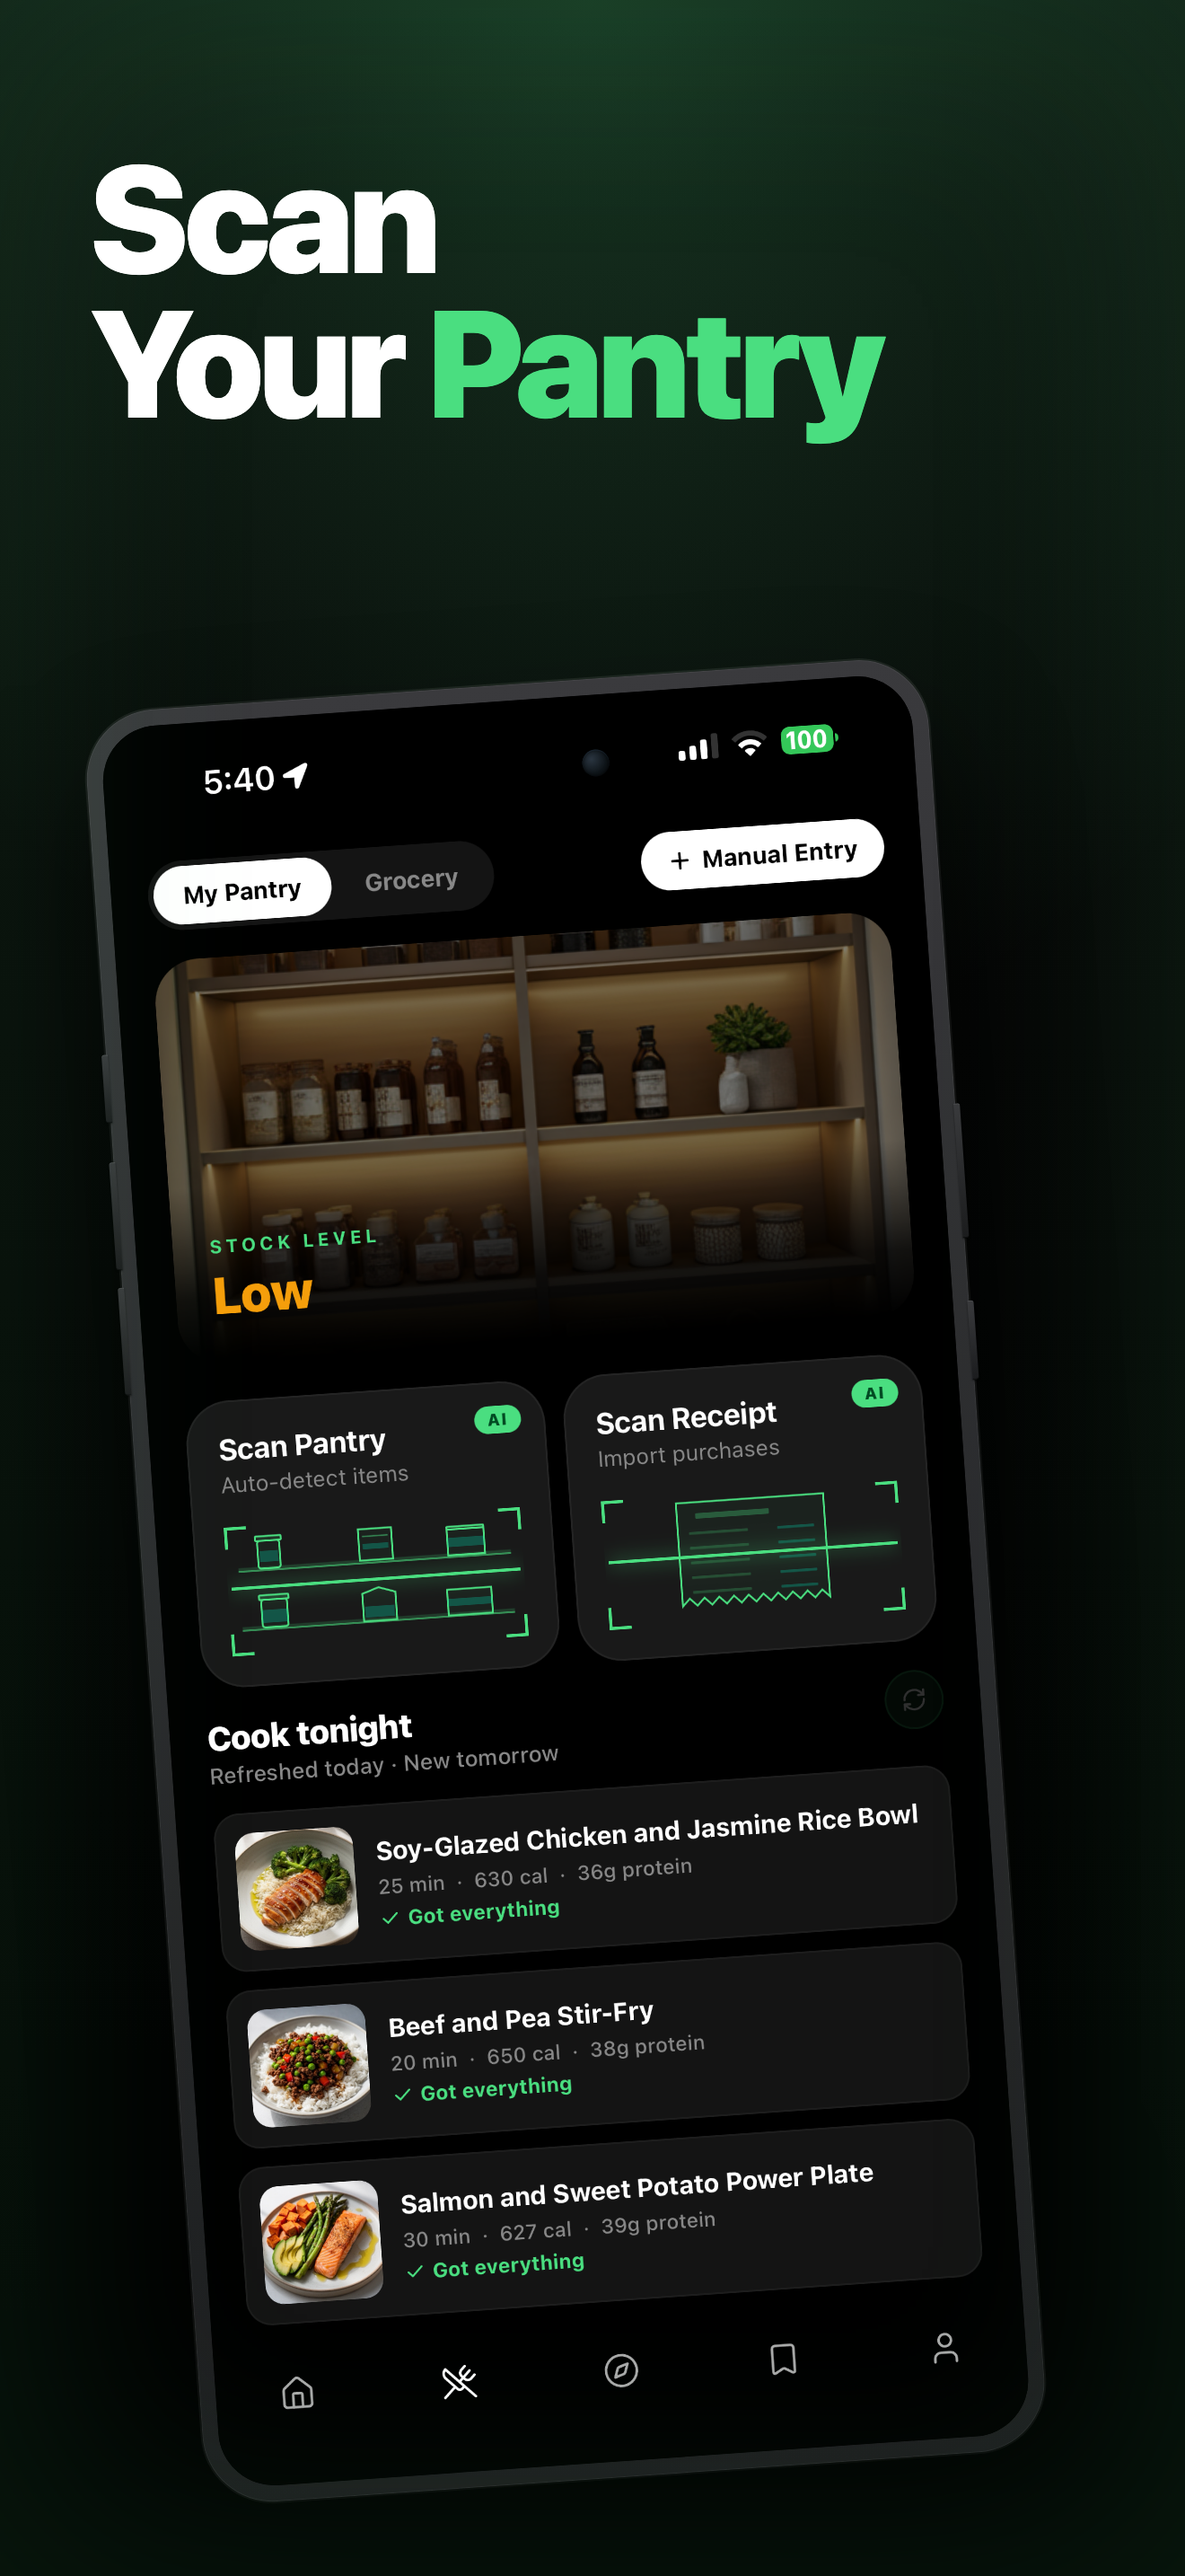
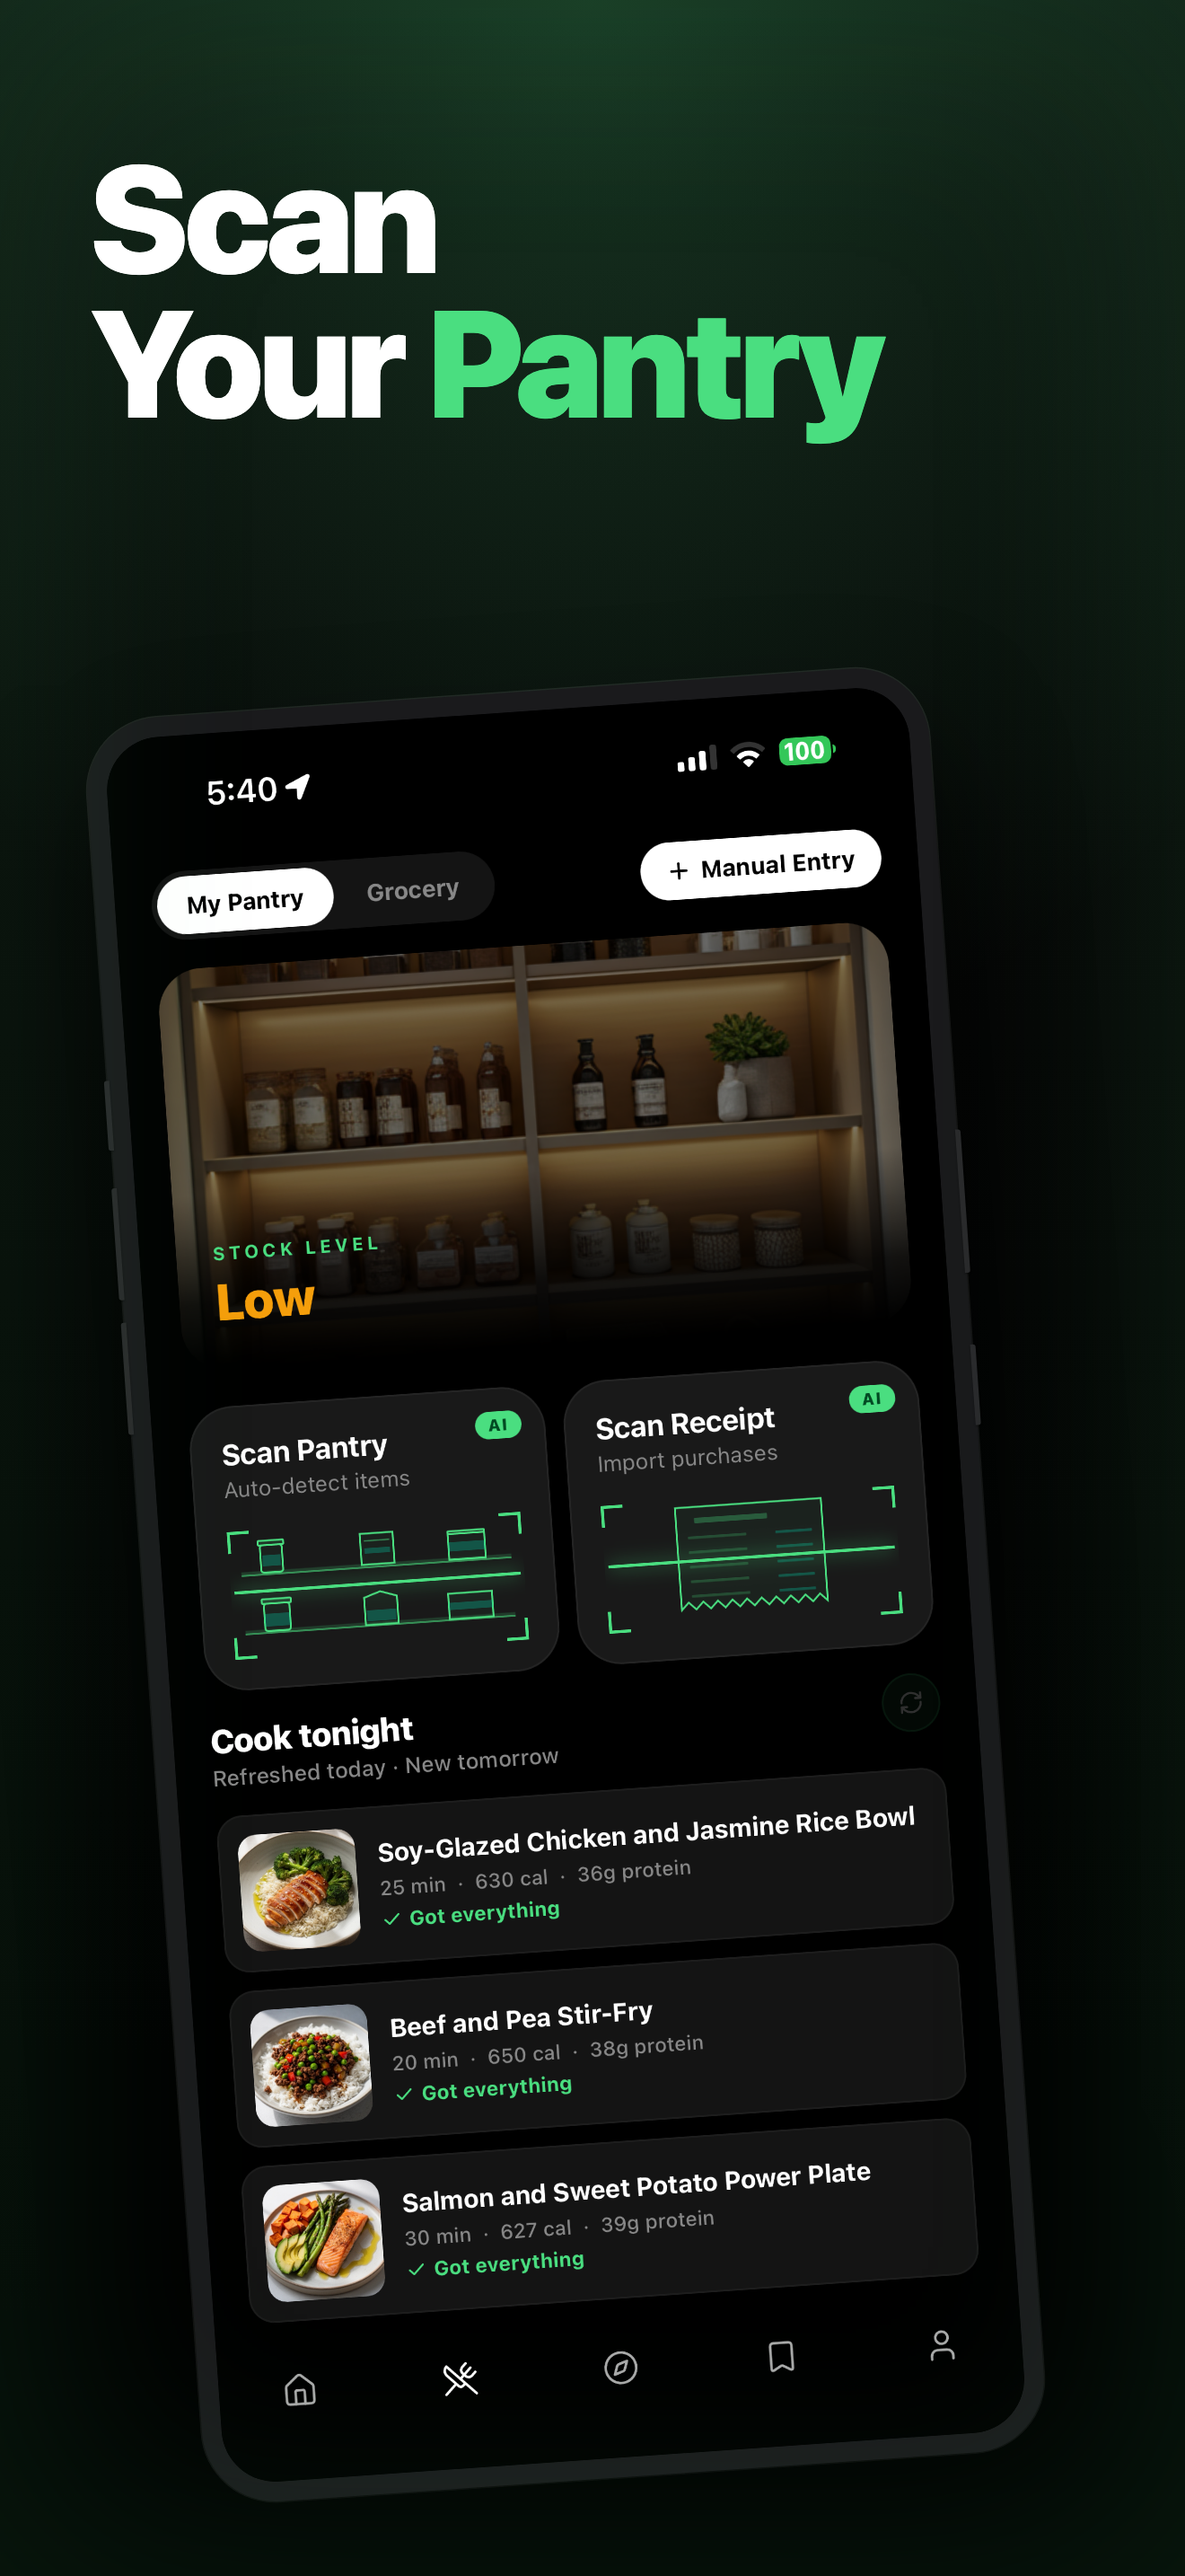
tweak(appstore): MFP-style clean phone border — solid bezel, no metallic gradient
Logan compared the phone to the MyFitnessPal App Store screenshots and
wanted that cleaner, more iconic iPhone silhouette look (less photographic
detail, more "device icon" style).

Changes:
  - Phone body: solid #1A1A1C bezel instead of #3A→#1C gradient. Reads
    as a clean dark frame, not a photo of a real phone.
  - Bezel padding 18px → 22px so the screen sits more inset, like MFP's
    chunky bezel illustration.
  - Outer rim: single 1.5px subtle white-alpha border to suggest metallic
    edge without overworking it.
  - Dynamic Island: removed the front-camera lens detail (too photographic).
    Bumped 268×76 → 280×80 to feel more prominent.
  - Side buttons: flatter solid color (#2A2A2C), single subtle drop shadow.
    Removed metallic gradient + dual-shadow that made them feel hyper-real.
  - Button positions nudged slightly to better match real iPhone 17 Pro Max.

Trade-off: lost a bit of "I am a real photo of an iPhone" realism, gained
the clean SaaS-grade illustration feel that MFP and other top apps use.
Better for App Store thumbnail scaling too.

diff --git a/appstore-screenshots/template.html b/appstore-screenshots/template.html
@@ -65,22 +65,24 @@
       z-index: 1;
     }
 
+    /* Phone body — MyFitnessPal style: solid dark bezel, clean iconic
+       silhouette, no metallic gradient. Subtle 1px outer rim highlight
+       gives it just enough "edge" without going photorealistic. */
     .phone {
       width: 940px;
-      padding: 18px;
-      border-radius: 78px;
-      background: linear-gradient(180deg, #3A3A3D 0%, #1C1C1E 100%);
+      padding: 22px;
+      border-radius: 82px;
+      background: #1A1A1C;
       box-shadow:
         0 80px 140px rgba(0,0,0,0.65),
-        0 0 0 2px rgba(255,255,255,0.08),
-        inset 0 0 0 1px rgba(255,255,255,0.06);
+        0 0 0 1.5px rgba(255,255,255,0.10);
       position: relative;
     }
 
     .phone-screen {
       width: 100%;
       aspect-ratio: 1320 / 2868;
-      border-radius: 62px;
+      border-radius: 60px;
       overflow: hidden;
       background: #000;
       display: block;
@@ -94,55 +96,34 @@
       display: block;
     }
 
-    /* Dynamic Island — sits OVER the screen at the top center.
-       Contains a subtle front-camera lens dot on the right side, matching
-       the actual iPhone 16/17 Pro Max layout. */
+    /* Dynamic Island — solid black pill, no camera detail. Matches the
+       clean "icon" look MFP uses vs. hyper-realistic device renders. */
     .dynamic-island {
       position: absolute;
       top: 38px;
       left: 50%;
       transform: translateX(-50%);
-      width: 268px;
-      height: 76px;
-      border-radius: 38px;
+      width: 280px;
+      height: 80px;
+      border-radius: 40px;
       background: #000;
       z-index: 5;
     }
 
-    .dynamic-island::after {
-      content: '';
-      position: absolute;
-      right: 22px;
-      top: 50%;
-      transform: translateY(-50%);
-      width: 30px;
-      height: 30px;
-      border-radius: 50%;
-      background:
-        radial-gradient(circle at 35% 35%, #2A3540 0%, #0E1418 60%, #050709 100%);
-      box-shadow:
-        inset 0 0 4px rgba(0,0,0,0.8),
-        inset 0 1px 1px rgba(80,120,160,0.3);
-    }
-
-    /* Side buttons — on the phone shell, slightly protruding.
-       Positions match iPhone 16/17 Pro Max (Action btn upper-left,
-       Camera Control lower-right is new on iPhone 16+). */
+    /* Side buttons — simpler, flatter, just enough to read as buttons.
+       MFP style: dark, uniform color, no metallic gradient. */
     .btn {
       position: absolute;
-      background: linear-gradient(180deg, #3A3A3D 0%, #1C1C1E 100%);
-      box-shadow:
-        inset 0 1px 0 rgba(255,255,255,0.10),
-        inset 0 -1px 0 rgba(0,0,0,0.5),
-        0 1px 2px rgba(0,0,0,0.6);
+      background: #2A2A2C;
+      box-shadow: 0 1px 2px rgba(0,0,0,0.4);
     }
-    /* Left side */
-    .btn-action   { left: -5px; top:  380px; width: 7px; height:  76px; border-radius: 3px 0 0 3px; }
-    .btn-vol-up   { left: -5px; top:  500px; width: 7px; height: 120px; border-radius: 3px 0 0 3px; }
-    .btn-vol-down { left: -5px; top:  640px; width: 7px; height: 120px; border-radius: 3px 0 0 3px; }
-    /* Right side */
-    .btn-power    { right: -5px; top: 500px; width: 7px; height: 150px; border-radius: 0 3px 3px 0; }
-    .btn-camera   { right: -5px; top: 720px; width: 7px; height:  88px; border-radius: 0 3px 3px 0; }
+    /* Left side: Action button + Volume up/down (iPhone 15 Pro+ layout) */
+    .btn-action   { left: -4px; top:  400px; width: 6px; height:  78px; border-radius: 3px 0 0 3px; }
+    .btn-vol-up   { left: -4px; top:  520px; width: 6px; height: 125px; border-radius: 3px 0 0 3px; }
+    .btn-vol-down { left: -4px; top:  670px; width: 6px; height: 125px; border-radius: 3px 0 0 3px; }
+    /* Right side: Power + Camera Control (iPhone 16+ layout) */
+    .btn-power    { right: -4px; top: 520px; width: 6px; height: 160px; border-radius: 0 3px 3px 0; }
+    .btn-camera   { right: -4px; top: 760px; width: 6px; height:  90px; border-radius: 0 3px 3px 0; }
   </style>
 </head>
 <body>
